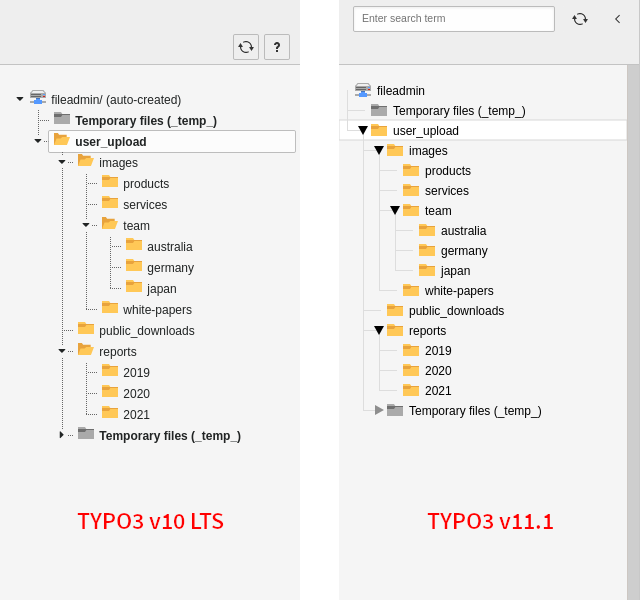
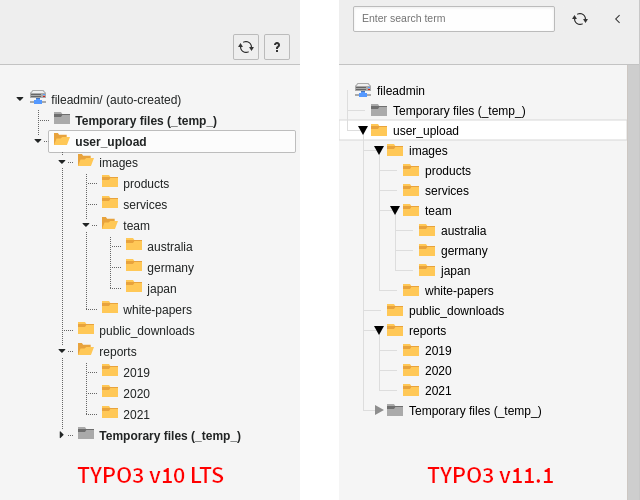
SVG folder tree in backend module "Filelist"

diff --git a/Slides/LaTeX/Chapters/BackendUserInterface/1613729428-BackendModuleFilelist.tex b/Slides/LaTeX/Chapters/BackendUserInterface/1613729428-BackendModuleFilelist.tex
@@ -16,7 +16,7 @@
 	SVG solution as the page tree does.
 
 	\begin{figure}
-		\includegraphics[width=0.4\linewidth]{BackendUserInterface/1613729428-BackendModuleFilelist.png}
+		\includegraphics[width=0.6\linewidth]{BackendUserInterface/1613729428-BackendModuleFilelist.png}
 	\end{figure}
 
 \end{frame}
